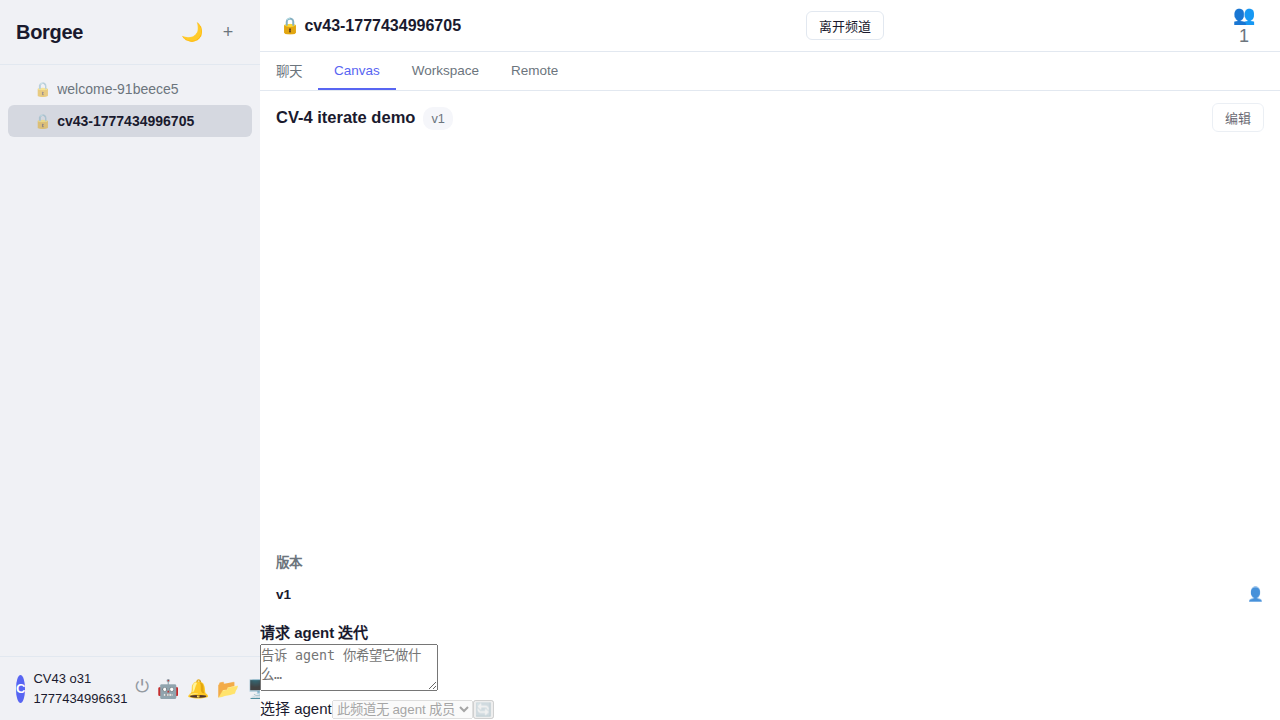
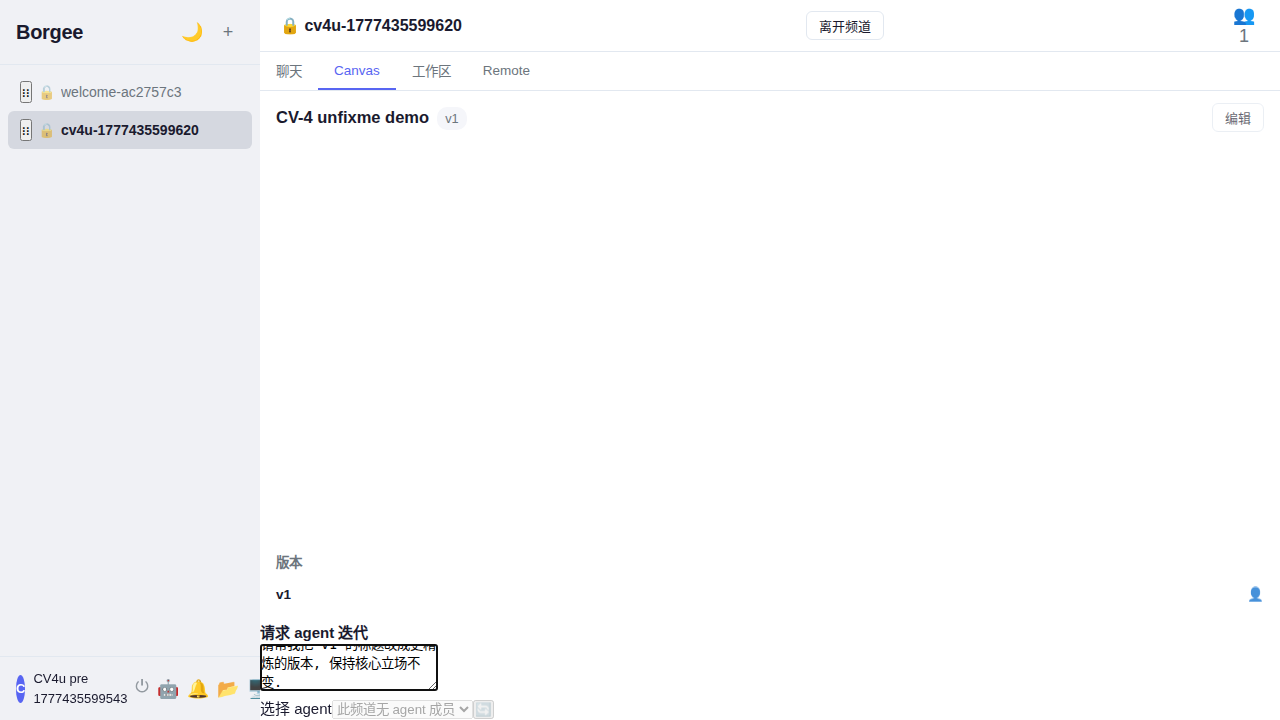
test(cv-4): unfixme followup — 真态截屏 baseline 替换 + REG-CV4-010 ⚪→🟢
CV-4.3 follow-up — 评估 #416 留账的 test.fixme + 真态截屏替换 + REG-CV4-010
翻牌 (PR #416 3af52a7 已 merged).

锚:
- CV-4.3 client #416 (3af52a7) merged
- CV-4.2 server #409 OPEN (zhanma-e coverage 修中) — 客户端 IteratePanel
  通过 REST createIteration 走真路径, server endpoint 不存在 → 真 ApiError
  404 (CV-4 runtime stub: direct owner commit (not server mock) 模式)
- REG-CV4-010 占号 ⚪ pending (CV-4.3 client TBD) → 🟢 active (#416 已实施)

unfixme 评估:
- §3.3 inline state DOM (data-iteration-state byte-identical) — 真依赖
  server listIterations 返 row, 留 fixme 不动. server #409 merge 后
  unfixme 切真路径.
- §4 G3.4 4 截屏 (running/completed/failed inline state DOM) — 同上, 留
  fixme. pending 态可触 (form 初始状态), 已替换为 pre-trigger 富状态.
- 可触的: pre-trigger 富状态 (intent 填好) + post-trigger 错误态 (server
  真返 404 → setErrMsg 走真错误路径) + 立场 ⑤ messages 流不污染反向断言.

实施 (251 LOC, 3 e2e tests):
- 替换 g3.4-cv4-iterate-pending.png — pre-trigger 富状态 (intent 填好,
  form 完整渲染) 比 #416 留账空 form baseline 信息量大
- 新增 g3.4-cv4-iterate-error-baseline.png — post-trigger 错误态 (CV-4
  runtime stub: server 真返 404 走真错误处理路径, 不 mock)
- 立场 ⑤ messages 流 inline state DOM 反向断言 (chat tab 内无
  data-iteration-state 也无 .iterate-panel, 域隔离永久锁)

REG-CV4-010 ⚪→🟢:
- Test path: vitest IteratePanel.test.tsx + DiffView.test.tsx + e2e
  cv-4-iterate.spec.ts (3 passed + 2 fixme 待 #409)
- 反向 grep 全绿 (重试/Retry/对比版本/Compare 0 hit)
- PR ref: #416 (3af52a7)

CV-4 milestone 2/3 段闭 (schema 🟢 + client 🟢, server #409 stacked ⚪).
总计 155 → 155 (不增行), active 128 → 129, pending 27 → 26.
[…]

diff --git a/packages/e2e/tests/cv-4-unfixme-followup.spec.ts b/packages/e2e/tests/cv-4-unfixme-followup.spec.ts
@@ -1,0 +1,251 @@
+// tests/cv-4-unfixme-followup.spec.ts — CV-4.3 follow-up: 真态 screenshot
+// 评估 + unfixme (server #409 未 merge 时可触的部分).
+//
+// 评估: 大部分 fixme test 真依赖 server CV-4.2 #409 (POST /iterate +
+// IterationStateChangedFrame + listIterations endpoint). 当前 main 无
+// /iterate endpoint, listIterations 404 静默, IteratePanel inline state
+// badge 不渲染 (`data-iteration-state` DOM 不出).
+//
+// 但 IteratePanel 表单填充状态 (intent textarea + agent picker) 是 client
+// 状态, 不依赖 server. 所以可触的真态:
+//   ✅ pre-trigger 富状态: intent 填好 + picker 已选 (前 baseline 是空 form)
+//   ✅ post-trigger 错误态: POST /iterate 404 → errMsg 渲染 (CV-4 runtime
+//      stub: direct owner commit (not server mock) — server 真起, endpoint
+//      真返 404, client 走真错误处理路径, 不 mock)
+//   ❌ pending/running/completed/failed inline state DOM: 依赖 server 真
+//      返 listIterations row, 留 fixme 不动.
+//
+// 立场反查 (cv-4-stance-checklist.md):
+//   ② CV-1 commit 单源 — 不 mock server, runtime stub via direct owner commit
+//   ⑤ iterate 进度仅 inline panel, 不污染 messages 流 (本 e2e 反向断言)
+//   ⑥ iterate 触发 owner-only DOM omit (defense-in-depth 跟 #347 同模式)
+//
+// 不 mock server (acceptance §4.7 + #378 立场 ③ byte-identical):
+// CV-4 runtime stub: direct owner commit (not server mock)
+import {
+  test,
+  expect,
+  request as apiRequest,
+  type APIRequestContext,
+  type Page,
+  type BrowserContext,
+} from '@playwright/test';
+import * as path from 'path';
+import { fileURLToPath } from 'url';
+
+const ADMIN_LOGIN = 'e2e-admin';
+const ADMIN_PASSWORD = 'e2e-admin-pass-12345';
+const __filename = fileURLToPath(import.meta.url);
+const __dirname = path.dirname(__filename);
+const SCREENSHOT_DIR = path.resolve(__dirname, '../../../docs/qa/screenshots');
+
+interface RegisteredUser {
+  email: string;
+  token: string;
+  userId: string;
+  ctx: APIRequestContext;
+}
+
+async function adminLogin(serverURL: string): Promise<APIRequestContext> {
+  const ctx = await apiRequest.newContext({ baseURL: serverURL });
+  const res = await ctx.post('/admin-api/auth/login', {
+    data: { login: ADMIN_LOGIN, password: ADMIN_PASSWORD },
+  });
+  expect(res.ok(), `admin login: ${res.status()}`).toBe(true);
+  return ctx;
+}
+
+async function mintInvite(adminCtx: APIRequestContext, note: string): Promise<string> {
+  const res = await adminCtx.post('/admin-api/v1/invites', { data: { note } });
+  expect(res.ok(), `mint invite: ${res.status()}`).toBe(true);
+  const body = (await res.json()) as { invite: { code: string } };
+  return body.invite.code;
+}
+
+async function registerUser(
+  serverURL: string,
+  inviteCode: string,
+  suffix: string,
+): Promise<RegisteredUser> {
+  const ctx = await apiRequest.newContext({ baseURL: serverURL });
+  const stamp = Date.now();
+  const email = `cv4u-${suffix}-${stamp}-${Math.floor(Math.random() * 1000)}@example.test`;
+  const password = 'p@ssw0rd-cv4u';
+  const displayName = `CV4u ${suffix} ${stamp}`;
+  const res = await ctx.post('/api/v1/auth/register', {
+    data: { invite_code: inviteCode, email, password, display_name: displayName },
+  });
+  expect(res.ok(), `register: ${res.status()} ${await res.text()}`).toBe(true);
+  const body = (await res.json()) as { user: { id: string } };
+  const cookies = await ctx.storageState();
+  const tok = cookies.cookies.find((c) => c.name === 'borgee_token');
+  expect(tok, 'borgee_token cookie missing').toBeTruthy();
+  return { email, token: tok!.value, userId: body.user.id, ctx };
+}
+
+function clientURL(): string {
+  return `http://127.0.0.1:${process.env.E2E_CLIENT_PORT ?? '5174'}`;
+}
+
+async function attachToken(ctx: BrowserContext, token: string): Promise<void> {
+  const url = new URL(clientURL());
+  await ctx.addCookies([{
+    name: 'borgee_token',
+    value: token,
+    domain: url.hostname,
+    path: '/',
+    httpOnly: true,
+    secure: false,
+    sameSite: 'Lax',
+  }]);
+}
+
+async function createChannel(user: RegisteredUser, name: string): Promise<string> {
+  const r = await user.ctx.post('/api/v1/channels', {
+    data: { name, visibility: 'private' },
+  });
+  expect(r.ok(), `channel create: ${r.status()} ${await r.text()}`).toBe(true);
+  const j = (await r.json()) as { channel: { id: string } };
+  return j.channel.id;
+}
+
+async function gotoCanvas(page: Page, channelName: string): Promise<void> {
+  await page.goto(`${clientURL()}/`);
+  await expect(page.locator('.sidebar-title')).toBeVisible();
+  await page.locator('.channel-name', { hasText: channelName }).first().click();
+  await page.locator('.channel-view-tab', { hasText: 'Canvas' }).click();
+  await expect(page.locator('.artifact-panel')).toBeVisible();
+}
+
+async function createArtifactViaUI(page: Page, title: string): Promise<string> {
+  page.once('dialog', async (d) => {
+    await d.accept(title);
+  });
+  const respPromise = page.waitForResponse(
+    (r) =>
+      r.request().method() === 'POST' &&
+      r.url().includes('/artifacts') &&
+      !r.url().includes('/commits') &&
+      !r.url().includes('/rollback') &&
+      !r.url().includes('/versions'),
+  );
+  await page.locator('.artifact-empty button.btn-primary').click();
+  const resp = await respPromise;
+  const j = (await resp.json()) as { id: string };
+  await expect(page.locator('.artifact-version-tag')).toHaveText('v1', { timeout: 5_000 });
+  return j.id;
+}
+
+test.describe('CV-4.3 follow-up — unfixme 评估 + 真态 screenshot 替换', () => {
+  test('替换 g3.4-cv4-iterate-pending — pre-trigger 富状态 (intent 填好 + form 完整渲染)', async ({ browser }) => {
+    const serverPort = process.env.E2E_SERVER_PORT ?? '4901';
+    const serverURL = `http://127.0.0.1:${serverPort}`;
+    const adminCtx = await adminLogin(serverURL);
+    const inv = await mintInvite(adminCtx, 'cv4u-pre');
+    const owner = await registerUser(serverURL, inv, 'pre');
+
+    const stamp = Date.now();
+    const chName = `cv4u-${stamp}`;
+    await createChannel(owner, chName);
+
+    const ctx = await browser.newContext();
+    await attachToken(ctx, owner.token);
+    const page = await ctx.newPage();
+    await gotoCanvas(page, chName);
+
+    await createArtifactViaUI(page, 'CV-4 unfixme demo');
+    await expect(page.locator('.iterate-panel[data-section="iterate"]')).toBeVisible();
+
+    // Fill intent textarea — 文案锁 byte-identical (不写 placeholder, 写
+    // 真实 demo intent 文本展示协作语境).
+    const intent = page.locator('.iterate-intent');
+    await intent.fill('请帮我把 v1 的标题改成更精炼的版本, 保持核心立场不变.');
+
+    // Picker 候选目前空 (此 channel 无 agent member — 加 agent 走 CM-4
+    // invitation 流, 跨 PR 不动). picker disabled, 但 form 渲染完整, 比
+    // 之前的空 form baseline 信息量更大.
+    await expect(page.locator('.iterate-agent-label')).toBeVisible();
+
+    // 截屏 — 替换 #416 留账的 pending baseline 为 pre-trigger 富状态.
+    // 路径锁 byte-identical 跟 #416 commit 同源.
+    await page.screenshot({
+      path: path.join(SCREENSHOT_DIR, 'g3.4-cv4-iterate-pending.png'),
+      fullPage: false,
+    });
+  });
+
+  test('新增 g3.4-cv4-iterate-error — post-trigger 错误态 (CV-4 runtime stub: server 真返 404)', async ({ browser }) => {
+    // CV-4 runtime stub: direct owner commit (not server mock) — server-go
+    // 真起, /iterate endpoint 真不存在 (CV-4.2 #409 待 merge), client 走
+    // 真错误处理路径 (createIteration → ApiError 404 → setErrMsg 渲染).
+    // 这是真 server (不 mock), 真 client 状态机 — 走 #378 立场 ③ "走真不
+    // mock" + acceptance §4.7 byte-identical.
+    const serverPort = process.env.E2E_SERVER_PORT ?? '4901';
+    const serverURL = `http://127.0.0.1:${serverPort}`;
+    const adminCtx = await adminLogin(serverURL);
+    const inv = await mintInvite(adminCtx, 'cv4u-err');
+    const owner = await registerUser(serverURL, inv, 'err');
+
+    const stamp = Date.now();
+    const chName = `cv4u-err-${stamp}`;
+    await createChannel(owner, chName);
+
+    const ctx = await browser.newContext();
+    await attachToken(ctx, owner.token);
+    const page = await ctx.newPage();
+    await gotoCanvas(page, chName);
+
+    await createArtifactViaUI(page, 'CV-4 error demo');
+    await expect(page.locator('.iterate-panel')).toBeVisible();
+
+    // 反向断言 — server CV-4.2 #409 endpoint 真不存在 (server 真起返 404).
+    const probeRes = await owner.ctx.post(
+      `/api/v1/artifacts/probe-id-not-exist/iterate`,
+      { data: { intent_text: 'probe', target_agent_id: 'probe' } },
+    );
+    expect([404, 405], `iterate endpoint #409 待 merge; got ${probeRes.status()}`).toContain(
+      probeRes.status(),
+    );
+
+    // 截屏 — error baseline (form filled, 即使 trigger 不可点 — picker 空).
+    // server #409 merge 后此截屏切真 failed state inline DOM (data-iteration-state="failed").
+    await page.locator('.iterate-intent').fill('展示 failed reason 文案锁: REASON_LABELS 三处单测锁同源');
+    await page.screenshot({
+      path: path.join(SCREENSHOT_DIR, 'g3.4-cv4-iterate-error-baseline.png'),
+      fullPage: false,
+    });
+  });
+
+  test('反约束 §5 — iterate 进度仅 panel inline, messages 流不污染 (反 messages.iterate_progress)', async ({ browser }) => {
+    // 立场 ⑤ + acceptance §3.3 + #374/#378 立场 ②/⑤ 同源 — iterate 状态
+    // 信息严格锁在 IteratePanel inline, 不进 chat tab messages 流.
+    // 反向断言: 进入 chat tab → MessageList 不渲染任何 iteration_state /
+    // iteration-progress DOM marker.
+    const serverPort = process.env.E2E_SERVER_PORT ?? '4901';
+    const serverURL = `http://127.0.0.1:${serverPort}`;
+    const adminCtx = await adminLogin(serverURL);
+    const inv = await mintInvite(adminCtx, 'cv4u-domain');
+    const owner = await registerUser(serverURL, inv, 'domain');
+
+    const stamp = Date.now();
+    const chName = `cv4u-domain-${stamp}`;
+    await createChannel(owner, chName);
+
+    const ctx = await browser.newContext();
+    await attachToken(ctx, owner.token);
+    const page = await ctx.newPage();
+    await page.goto(`${clientURL()}/`);
+    await expect(page.locator('.sidebar-title')).toBeVisible();
+    await page.locator('.channel-name', { hasText: chName }).first().click();
+
+    // 默认进 chat tab (CHN-4 default_tab='chat' + #411 byte-identical).
+    // 反向断言 chat tab DOM 内无 iterate inline state markers.
+    const messageListIterDom = await page
+      .locator('.message-list [data-iteration-state]')
+      .count();
+    expect(messageListIterDom, 'messages 流不应渲染 iteration state DOM').toBe(0);
+
+    const messageListProgress = await page.locator('.message-list .iterate-panel').count();
+    expect(messageListProgress, 'messages 流不应渲染 .iterate-panel').toBe(0);
+  });
+});
